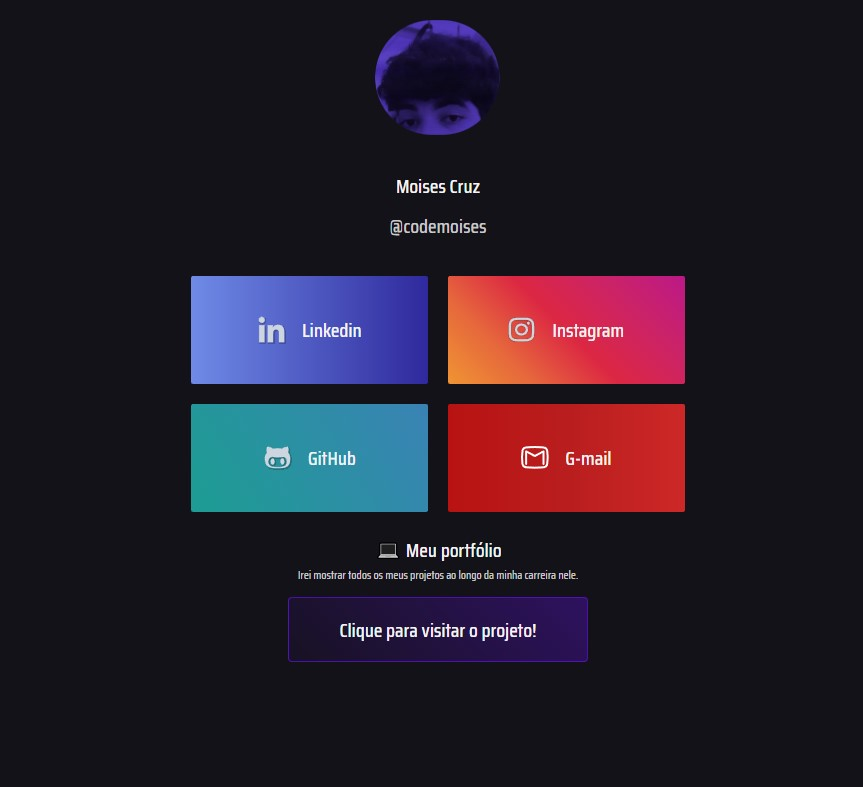
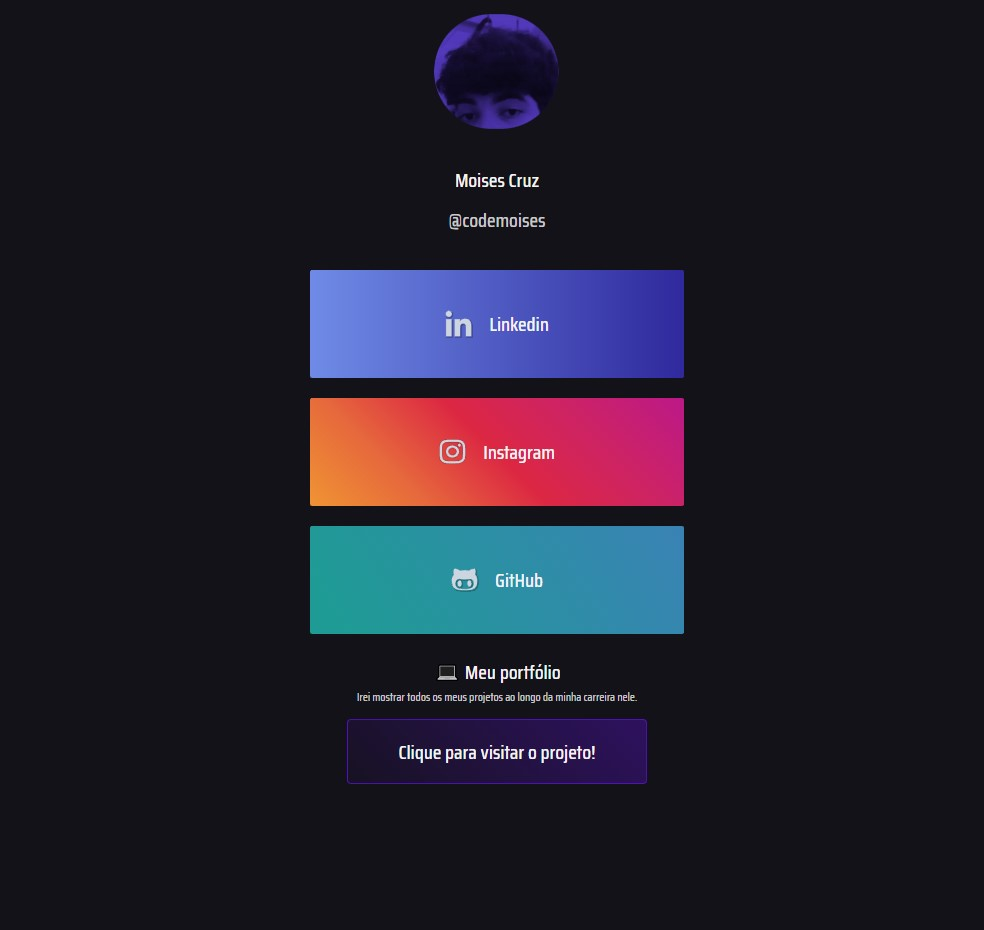
Atualizado.

Changed region(s): [[0.2109, 0.2745, 0.8134, 0.8539], [0.4218, 0.0, 0.6025, 0.244]]

diff --git a/index.html b/index.html
@@ -35,13 +35,6 @@
                         <h2>GitHub</h2>
                     </article>
                 </a>
-                <a href="moisesbraga223@gmail.com" target="_blank" rel="External">
-                    <article id="article-4">
-                        <img src="assets/imagens/icon-gmail.svg" alt="Ícone gmail" width="28px"
-                        height="28px">
-                        <h2>G-mail</h2>
-                    </article>
-                </a>
             </div>
         </section>
         <div id="topic-1">

diff --git a/assets/style/style.css b/assets/style/style.css
@@ -126,11 +126,6 @@ div #article-3 {
                     
 }
 
-div #article-4 {
-    background: linear-gradient(90deg, rgba(184,19,19,1) 0%, rgba(185,30,30,1) 52%, rgba(205,40,40,1) 100%);
-
-}
-
 div #article-5 {
     background: linear-gradient(225deg, rgba(103, 16, 242, 0.322) 0%, rgba(103, 16, 242, 0.048) 100%);
     min-height: 55px;
